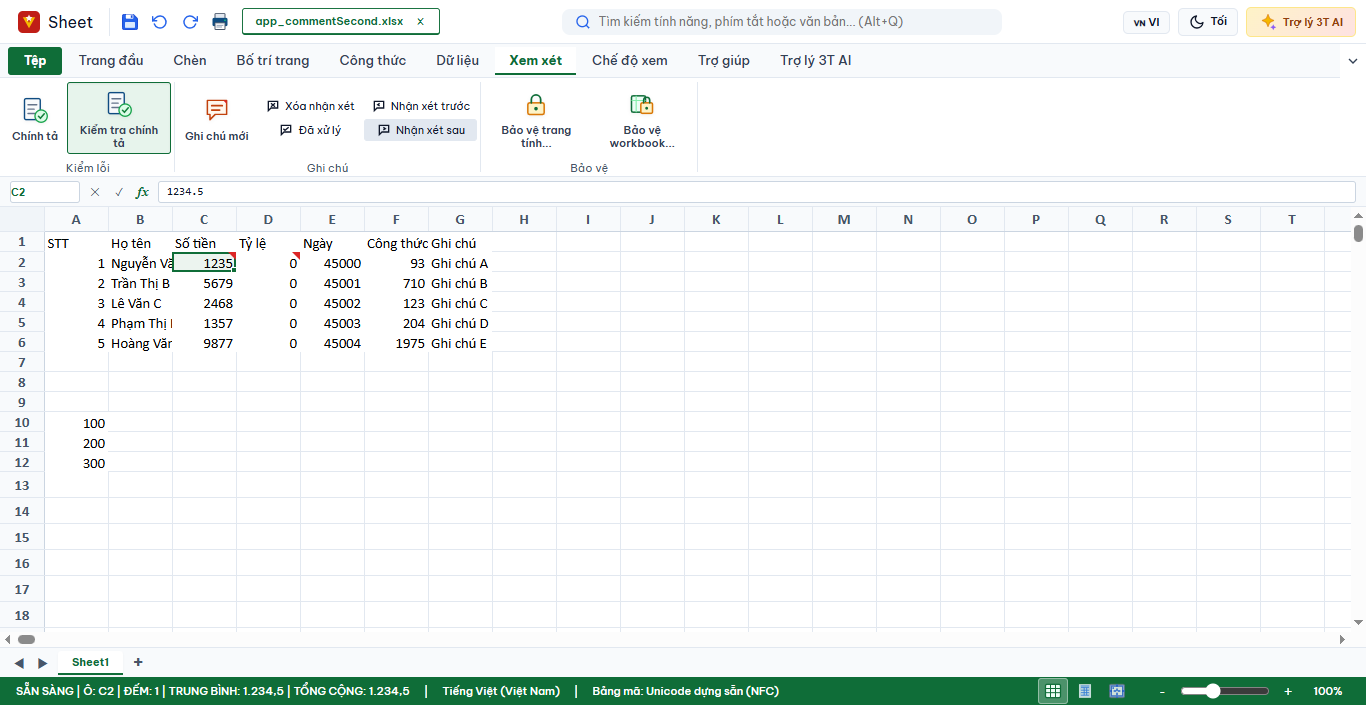
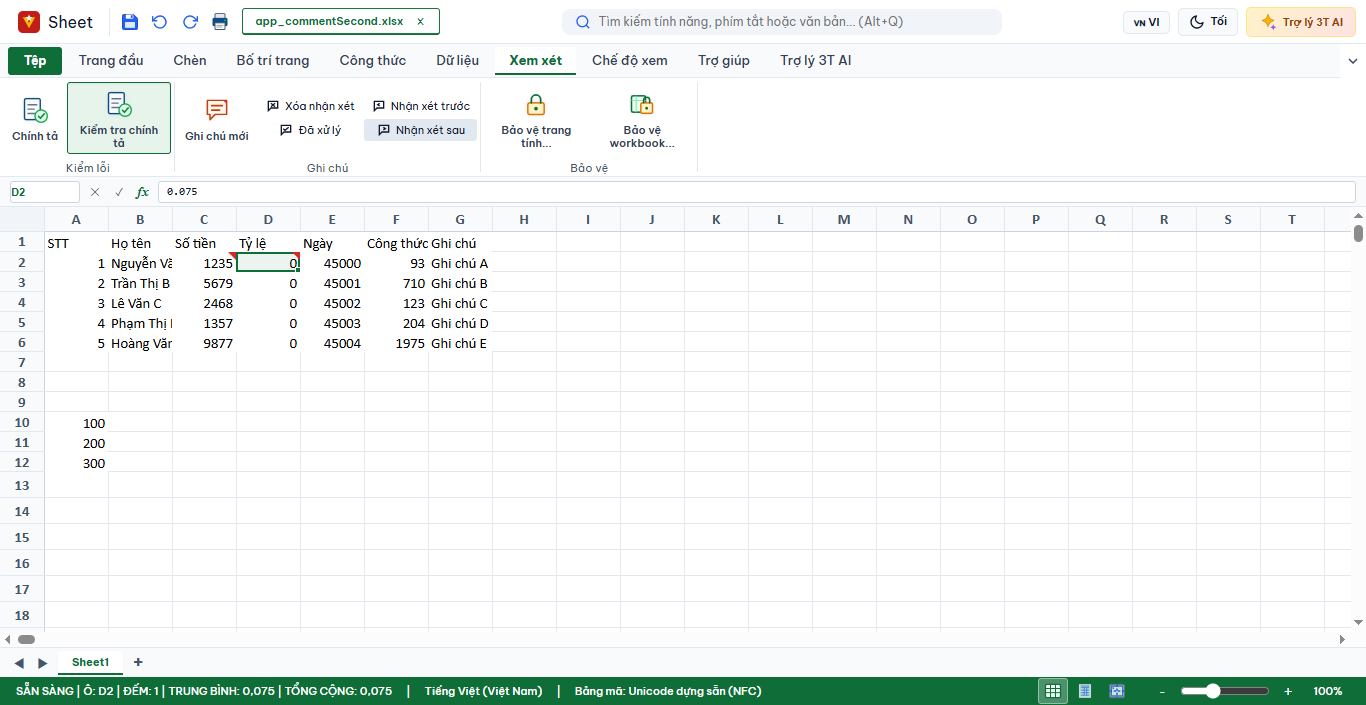
audit(sheet): capture comment navigation limits

Changed region(s): [[0.0615, 0.9674, 0.5842, 0.9986], [0.123, 0.3433, 0.1845, 0.4057], [0.123, 0.2496, 0.1537, 0.2809]]

diff --git a/scripts/audit-0610/gen_sheet_button_matrix.py b/scripts/audit-0610/gen_sheet_button_matrix.py
@@ -62,6 +62,7 @@ mark(MATCH, "sheet.insert.hyperlink", "FIX-S12 Chèn: CDP nhập https://vnoffic
 mark(MATCH, "sheet.insert.image", "FIX-S12 Chèn: CDP chọn ảnh PNG qua file chooser và đặt tại B2; Excel COM ReadOnly xác nhận Shapes.Count=1, Type=13, TopLeft=B2 (app_image.xlsx); hướng dẫn Chèn > Minh họa trong Help; VI/EN i18n có sẵn; ảnh docs/tickets-0710/evidence/fix-s12-image.png")
 mark(MATCH, "sheet.insert.sparklineLine sheet.insert.sparklineColumn", "FIX-S12 Chèn > Biểu đồ thu nhỏ: CDP chọn dải số C2:C6, chèn tại ô active C6; Excel COM ReadOnly xác nhận SparklineGroups.Count=1, Type=1 (Line) / Type=2 (Column) trong XLSX. Help tiếng Việt và i18n VI/EN có sẵn; ảnh docs/tickets-0710/evidence/fix-s12-sparklineLine.png, fix-s12-sparklineColumn.png")
 mark(KNOWN_GAP, "sheet.chart.pivotChart", "FIX-S12: CDP tạo PivotTable rồi bấm Chèn > Biểu đồ Pivot > Cột. Excel COM ReadOnly: PivotTables=1, Charts=1, ChartType=51 nhưng Chart.PivotLayout.PivotTable.Name rỗng, PivotFields=0; XLSX có biểu đồ thường, không liên kết Pivot. Ảnh docs/tickets-0710/evidence/fix-s12-pivotChart.png. Cần quyết định trước khi đổi OOXML/file-format semantics; Help hiện tuyên bố biểu đồ được liên kết Pivot.")
+mark(UNCHECKED, "sheet.review.commentPrevious sheet.review.commentNext", "FIX-S12 probe: với workbook có nhận xét C2/D2, CDP Previous từ D2 chọn C2 và Next từ C2 chọn D2; ảnh docs/tickets-0710/evidence/fix-s12-commentPrevious.png và fix-s12-commentNext.png. Excel COM ReadOnly xác nhận cả hai nhận xét còn trong XLSX nhưng khi mở lại ActiveCell=A1 nên không lưu được trạng thái điều hướng; giữ CHƯA ĐỐI CHIẾU.")
 mark(MATCH, "sheet.cell.indentDecrease", "FIX-S13: CDP giảm thụt lề về 0; Excel COM ReadOnly xác nhận Indent=0 (app_s13_indentDecrease.xlsx)")
 mark(MATCH, "sheet.formula.showFormulas", "FIX-S13: CDP nhấn Ctrl+` thật; Excel COM ReadOnly xác nhận ActiveWindow.DisplayFormulas=1 (app_s13_showFormulas.xlsx)")
 mark(MATCH, "sheet.data.pivotRefresh", "FIX-S13: CDP sửa nguồn C2=2222 rồi làm mới; Excel COM ReadOnly xác nhận PivotTables.Count=1, tổng 2222 và không lặp hàng (app_s13_pivotRefresh.xlsx)")

diff --git a/docs/AGENT-HANDOFF-FIX-S12-CODEX-S14.md b/docs/AGENT-HANDOFF-FIX-S12-CODEX-S14.md
@@ -5,7 +5,7 @@ AGENT/ROLE: Codex / Sheet ribbon audit
 BRANCH: `audit/sheet-s14-codex`
 WORKTREE: `E:\VNOffice-codex-fs14`
 OBJECTIVE: Compare the 138 Sheet ribbon commands against Excel using real CDP UI actions and read-only Excel COM inspection of the saved XLSX files.
-FINDINGS: The matrix is now 88 KHỚP EXCEL / 1 LỆCH ĐÃ BIẾT / 49 CHƯA ĐỐI CHIẾU (72/66 at this worktree's start). Hyperlink export was fixed in the adapter/parser and verified in Excel. Formula name/error/recalculation/Insert Function (`=TODAY()`), image, both Sparkline types, comments insert/delete, and page layout actions gained saved-file evidence. PivotChart is a known gap: Excel COM found no PivotTable link or PivotFields in the exported chart. Comment Previous/Next and Header/Footer remain unchecked. Home alignment remains unchecked: hit testing found the `alignTop` node at `(412,56)` under the ribbon tabs while its panel starts at `y=78`, and the hit target is the tab strip. The runner now refuses to count this as a button click. See `docs/tickets-0710/FIX-S12-RESULTS.md` and `docs/SHEET-BUTTON-MATRIX-1011.md`.
+FINDINGS: The matrix is now 88 KHỚP EXCEL / 1 LỆCH ĐÃ BIẾT / 49 CHƯA ĐỐI CHIẾU (72/66 at this worktree's start). Hyperlink export was fixed in the adapter/parser and verified in Excel. Formula name/error/recalculation/Insert Function (`=TODAY()`), image, both Sparkline types, comments insert/delete, and page layout actions gained saved-file evidence. PivotChart is a known gap: Excel COM found no PivotTable link or PivotFields in the exported chart. Comment Previous/Next navigate between C2/D2 in CDP, but remain unchecked because Excel reopens the saved file at A1; Header/Footer also remains unchecked. Home alignment remains unchecked: hit testing found the `alignTop` node at `(412,56)` under the ribbon tabs while its panel starts at `y=78`, and the hit target is the tab strip. The runner now refuses to count this as a button click. See `docs/tickets-0710/FIX-S12-RESULTS.md` and `docs/SHEET-BUTTON-MATRIX-1011.md`.
 IMPLEMENTATION SUMMARY: Reused the existing CDP runner, Excel COM reader, matrix generator, adapter export path, and in-app Help/i18n. Fixed hyperlink persistence in the Sheet FODS save/load path. No LibreOffice Core changes and no new dependencies.
 FILES CHANGED: `adapters/libreoffice/sheet/sheet-adapter.js`, `adapters/libreoffice/sheet/sheet-payload-parser.js`, `tests/unit/sheet-comments-printarea.test.js`, `scripts/audit-0610/gen_sheet_button_matrix.py`, `scripts/audit-0610/word_parallel/app-ops-sheet.desktop.mjs`, `scripts/audit-0610/word_parallel/excel-read.ps1`, `docs/SHEET-BUTTON-MATRIX-1011.md`, `docs/tickets-0710/FIX-S12-RESULTS.md`, and `docs/tickets-0710/evidence/fix-s12-*.png`.
 COMMANDS RUN: `npm test`; `python -m unittest discover -s tests`; dirty-save XLSX batch for lan01/02/04/06/09/11/22/26; Sheet matrix generator; CDP + Excel COM read-only probes; `node --check` for the runner; UTF-8/no-BOM scan of changed text files; `git diff --check` for worktree and branch diff.

diff --git a/docs/SHEET-BUTTON-MATRIX-1011.md b/docs/SHEET-BUTTON-MATRIX-1011.md
@@ -125,8 +125,8 @@ Các nút nguy hiểm/ngoại tuyến hoặc nút AI không được chạy tron
 | Xem xét | `sheet.review.commentInsert` | Ghi chú mới | KHỚP EXCEL | FIX-S12 Xem xét: CDP tạo ghi chú tại C2; Excel COM ReadOnly xác nhận Comment='Ghi chú kiểm thử S12', Author='Người dùng 3T Office' (app_commentInsert.xlsx); ảnh docs/tickets-0710/evidence/fix-s12-commentInsert.png | dialog,toast:A1 |
 | Xem xét | `sheet.review.commentDelete` | Xóa nhận xét | KHỚP EXCEL | FIX-S12 Xem xét: CDP xóa ghi chú C2 trên workbook đã có ghi chú; Excel COM ReadOnly xác nhận C2.Comment rỗng sau lưu (app_commentDelete.xlsx); ảnh docs/tickets-0710/evidence/fix-s12-commentDelete.png | dom:1 |
 | Xem xét | `sheet.review.commentResolve` | Đã xử lý | CHƯA ĐỐI CHIẾU | Chưa có chứng cứ Excel COM gắn với command ID này. | dom:1 |
-| Xem xét | `sheet.review.commentPrevious` | Nhận xét trước | CHƯA ĐỐI CHIẾU | Chưa có chứng cứ Excel COM gắn với command ID này. | dom:1 |
-| Xem xét | `sheet.review.commentNext` | Nhận xét sau | CHƯA ĐỐI CHIẾU | Chưa có chứng cứ Excel COM gắn với command ID này. | dom:1 |
+| Xem xét | `sheet.review.commentPrevious` | Nhận xét trước | CHƯA ĐỐI CHIẾU | FIX-S12 probe: với workbook có nhận xét C2/D2, CDP Previous từ D2 chọn C2 và Next từ C2 chọn D2; ảnh docs/tickets-0710/evidence/fix-s12-commentPrevious.png và fix-s12-commentNext.png. Excel COM ReadOnly xác nhận cả hai nhận xét còn trong XLSX nhưng khi mở lại ActiveCell=A1 nên không lưu được trạng thái điều hướng; giữ CHƯA ĐỐI CHIẾU. | dom:1 |
+| Xem xét | `sheet.review.commentNext` | Nhận xét sau | CHƯA ĐỐI CHIẾU | FIX-S12 probe: với workbook có nhận xét C2/D2, CDP Previous từ D2 chọn C2 và Next từ C2 chọn D2; ảnh docs/tickets-0710/evidence/fix-s12-commentPrevious.png và fix-s12-commentNext.png. Excel COM ReadOnly xác nhận cả hai nhận xét còn trong XLSX nhưng khi mở lại ActiveCell=A1 nên không lưu được trạng thái điều hướng; giữ CHƯA ĐỐI CHIẾU. | dom:1 |
 | Xem xét | `sheet.sheet.protect` | Bảo vệ trang tính... | CHƯA ĐỐI CHIẾU | Chưa có chứng cứ Excel COM gắn với command ID này. | dialog,toast:A1 |
 | Xem xét | `sheet.workbook.protect` | Bảo vệ workbook... | CHƯA ĐỐI CHIẾU | Chưa có chứng cứ Excel COM gắn với command ID này. | dialog,toast:A1 |
 | Chế độ xem | `sheet.view.normal` | Bình thường | CHƯA ĐỐI CHIẾU | Chưa có chứng cứ Excel COM gắn với command ID này. | dom:142 |

diff --git a/docs/tickets-0710/FIX-S12-RESULTS.md b/docs/tickets-0710/FIX-S12-RESULTS.md
@@ -189,7 +189,7 @@
 
 - Starting matrix from main: 72 KHỚP EXCEL / 66 CHƯA ĐỐI CHIẾU. Current generated matrix: **88 KHỚP EXCEL / 1 LỆCH ĐÃ BIẾT / 49 CHƯA ĐỐI CHIẾU**; no evidence was added for failed or inconclusive probes.
 - New read-only Excel COM evidence: Formula named range (`S12Cell -> B2`), `#DIV/0!` error checking, formula recalculation (`F2=92.5875`), image (`Shapes.Count=1`, `TopLeft=B2`), comment insertion/deletion, page size Legal, print scale 80%, row 1 print titles, and page-break insert/remove. Hyperlink export regression fixed in the Sheet adapter/parser; Excel confirms one hyperlink at G2. Existing Vietnamese Help and VI/EN i18n cover hyperlink insertion.
-- Comment Previous/Next and Header/Footer remain CHƯA ĐỐI CHIẾU because the current UI probes did not prove saved state. Home vertical alignment/wrap remain unchecked; CDP diagnostics show the click did not act on the intended ribbon control. No product behavior was inferred from those clicks.
+- Comment Previous/Next remain CHƯA ĐỐI CHIẾU: on a workbook containing comments at C2/D2, real CDP clicks navigated Previous D2→C2 and Next C2→D2 (screenshots in evidence). Excel COM ReadOnly found both comments in the saved XLSX but reopened with `ActiveCell=A1`, so the transient navigation state was not retained for saved-file comparison. Header/Footer remains unchecked because the UI probe did not prove a saved value. Home vertical alignment/wrap remain unchecked; CDP diagnostics show the click did not act on the intended ribbon control. No product behavior was inferred from those clicks.
 - **PASS** `npm test`: 3089/3089.
 - **PASS** `python -m unittest discover -s tests`: 883 tests, 506.094 seconds, OK. Python emitted `ResourceWarning` for open subprocess streams; no test failed.
 - **PASS** dirty-save XLSX batch for lan01/02/04/06/09/11/22/26: 8/8 saved, `diffs=0`, lint clean, Excel PASS. Report: `E:\VNOffice-profiles\codex-fs14\batch-xlsx\batch_document_audit_report.md`.
